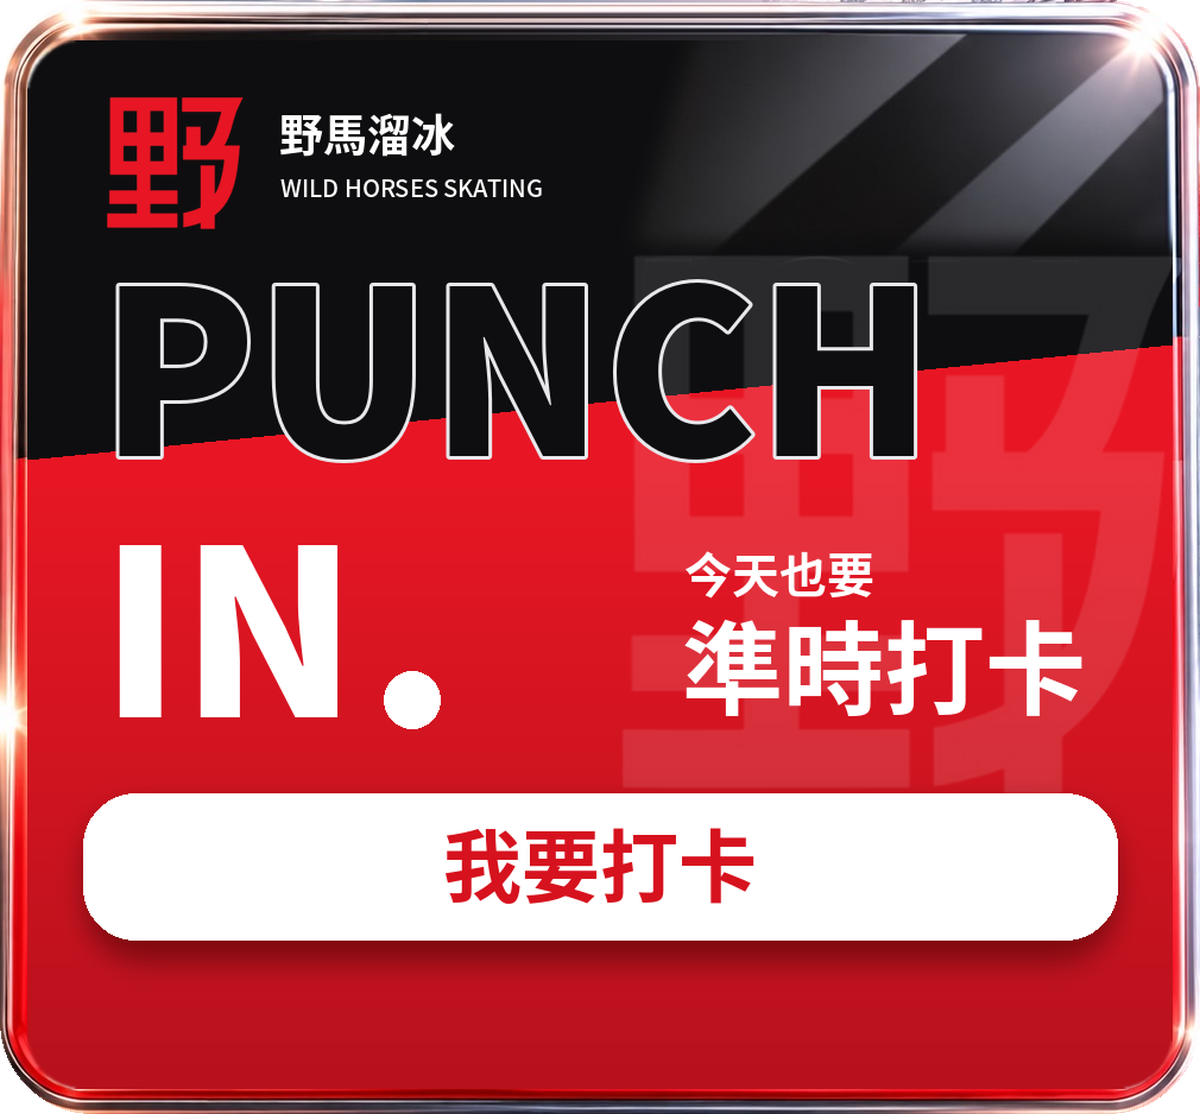
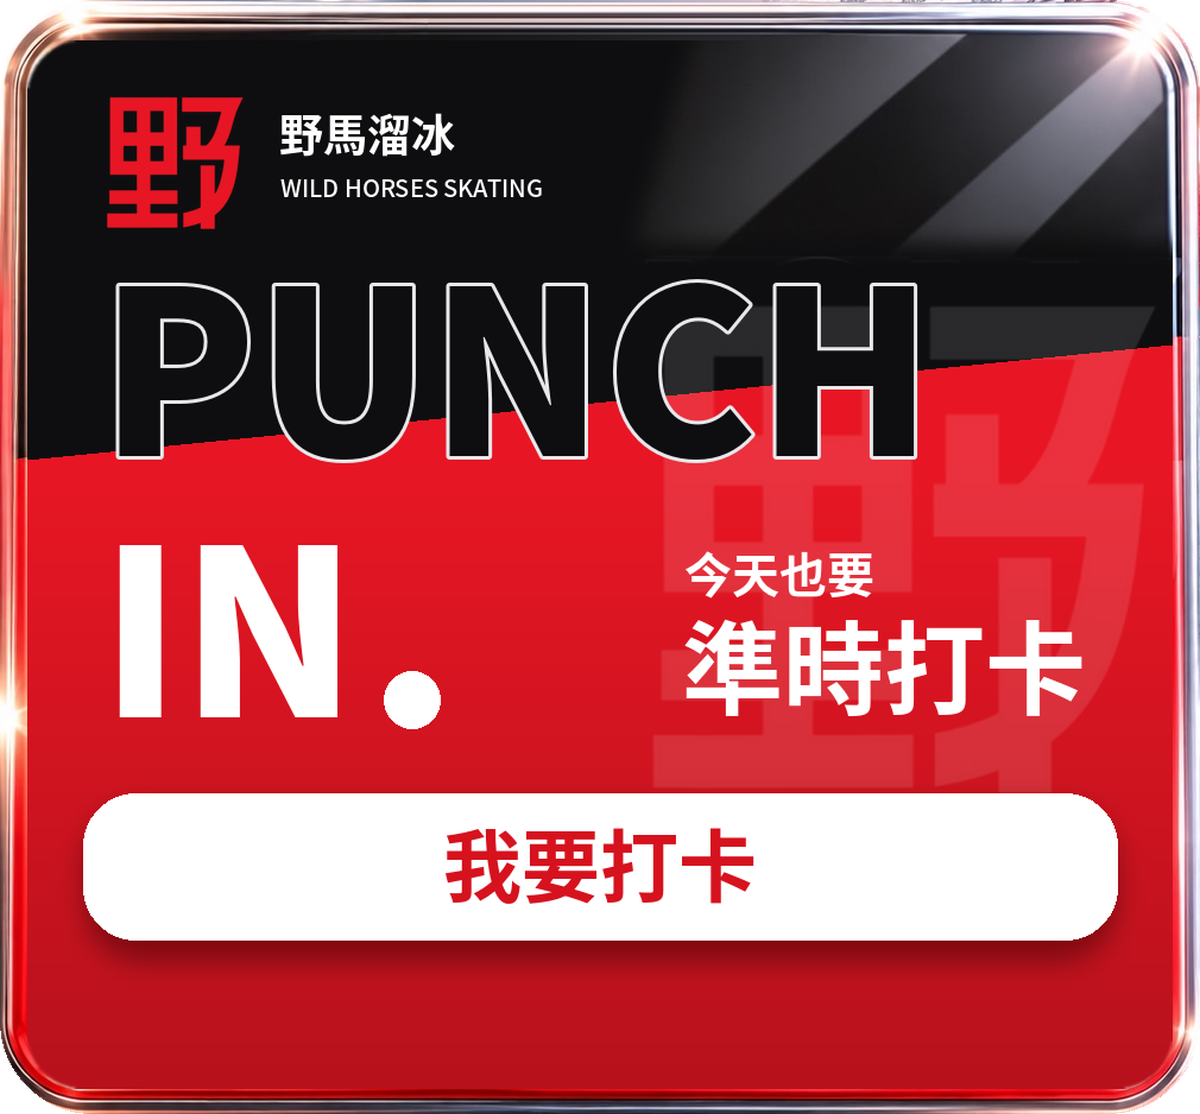
分享吊牌：浮水印縮小、上緣對齊 PUNCH
Claude-Session: https://claude.ai/code/session_01SgUoPMs89Ch7rWoMucrYnN

diff --git a/app.js b/app.js
@@ -6,7 +6,7 @@ import {
   initializeFirestore, doc, getDoc, setDoc as _setDoc, updateDoc as _updateDoc, deleteDoc as _deleteDoc, addDoc as _addDoc,
   collection, query, where, getDocs, serverTimestamp, writeBatch as _writeBatch, deleteField, arrayUnion, arrayRemove
 } from "https://www.gstatic.com/firebasejs/10.12.2/firebase-firestore.js";
-import { firebaseConfig, LIFF_ID, WORKER_URL } from "./config.js?v=88";
+import { firebaseConfig, LIFF_ID, WORKER_URL } from "./config.js?v=89";
 
 /* 整個月的大量查詢（報表、薪資、排班）暫存 3 分鐘，省 Firestore 讀取額度；任何寫入都會清掉暫存 */
 const MEMO = new Map();
@@ -865,7 +865,7 @@ $("#sharePunchBtn").onclick = async () => {
   const flex = { type: "flex", altText: "今天也要準時打卡｜野馬溜冰打卡系統", contents: {
     type: "bubble",
     styles: { hero: { backgroundColor: "#00000000" } },
-    hero: { type: "image", url: "https://wild-horses-skating.pages.dev/share-card.png?v=18", size: "full", aspectRatio: "1200:1114", aspectMode: "fit", action: { type: "uri", label: "我要打卡", uri: PUNCH_URL } } } };
+    hero: { type: "image", url: "https://wild-horses-skating.pages.dev/share-card.png?v=19", size: "full", aspectRatio: "1200:1114", aspectMode: "fit", action: { type: "uri", label: "我要打卡", uri: PUNCH_URL } } } };
   if (me?.role !== "admin") return;
   const ok = await getLiff();
   if (!ok || !liff.isInClient?.()) return appAlert("請在 LINE 裡打開", "圖文卡片只能在 LINE 裡分享，請從 LINE 官方帳號的選單打開打卡系統再按一次。");

diff --git a/index.html b/index.html
@@ -16,7 +16,7 @@
   <title>野馬溜冰打卡系統</title>
   <meta property="og:title" content="野馬溜冰打卡系統">
   <meta property="og:description" content="點這裡上班・下班打卡">
-  <meta property="og:image" content="https://wild-horses-skating.pages.dev/share-card.png?v=18">
+  <meta property="og:image" content="https://wild-horses-skating.pages.dev/share-card.png?v=19">
   <meta property="og:url" content="https://liff.line.me/2012318362-VOU7aFr9?view=clock">
   <meta name="twitter:card" content="summary_large_image">
   <link rel="preconnect" href="https://www.gstatic.com" crossorigin>
@@ -26,7 +26,7 @@
   <link rel="modulepreload" href="https://www.gstatic.com/firebasejs/10.12.2/firebase-app.js">
   <link rel="modulepreload" href="https://www.gstatic.com/firebasejs/10.12.2/firebase-auth.js">
   <link rel="modulepreload" href="https://www.gstatic.com/firebasejs/10.12.2/firebase-firestore.js">
-  <link rel="stylesheet" href="style.css?v=88">
+  <link rel="stylesheet" href="style.css?v=89">
 </head>
 <body>
 
@@ -787,6 +787,6 @@
     }
   }, 25000);
 </script>
-<script type="module" src="app.js?v=88"></script>
+<script type="module" src="app.js?v=89"></script>
 </body>
 </html>
